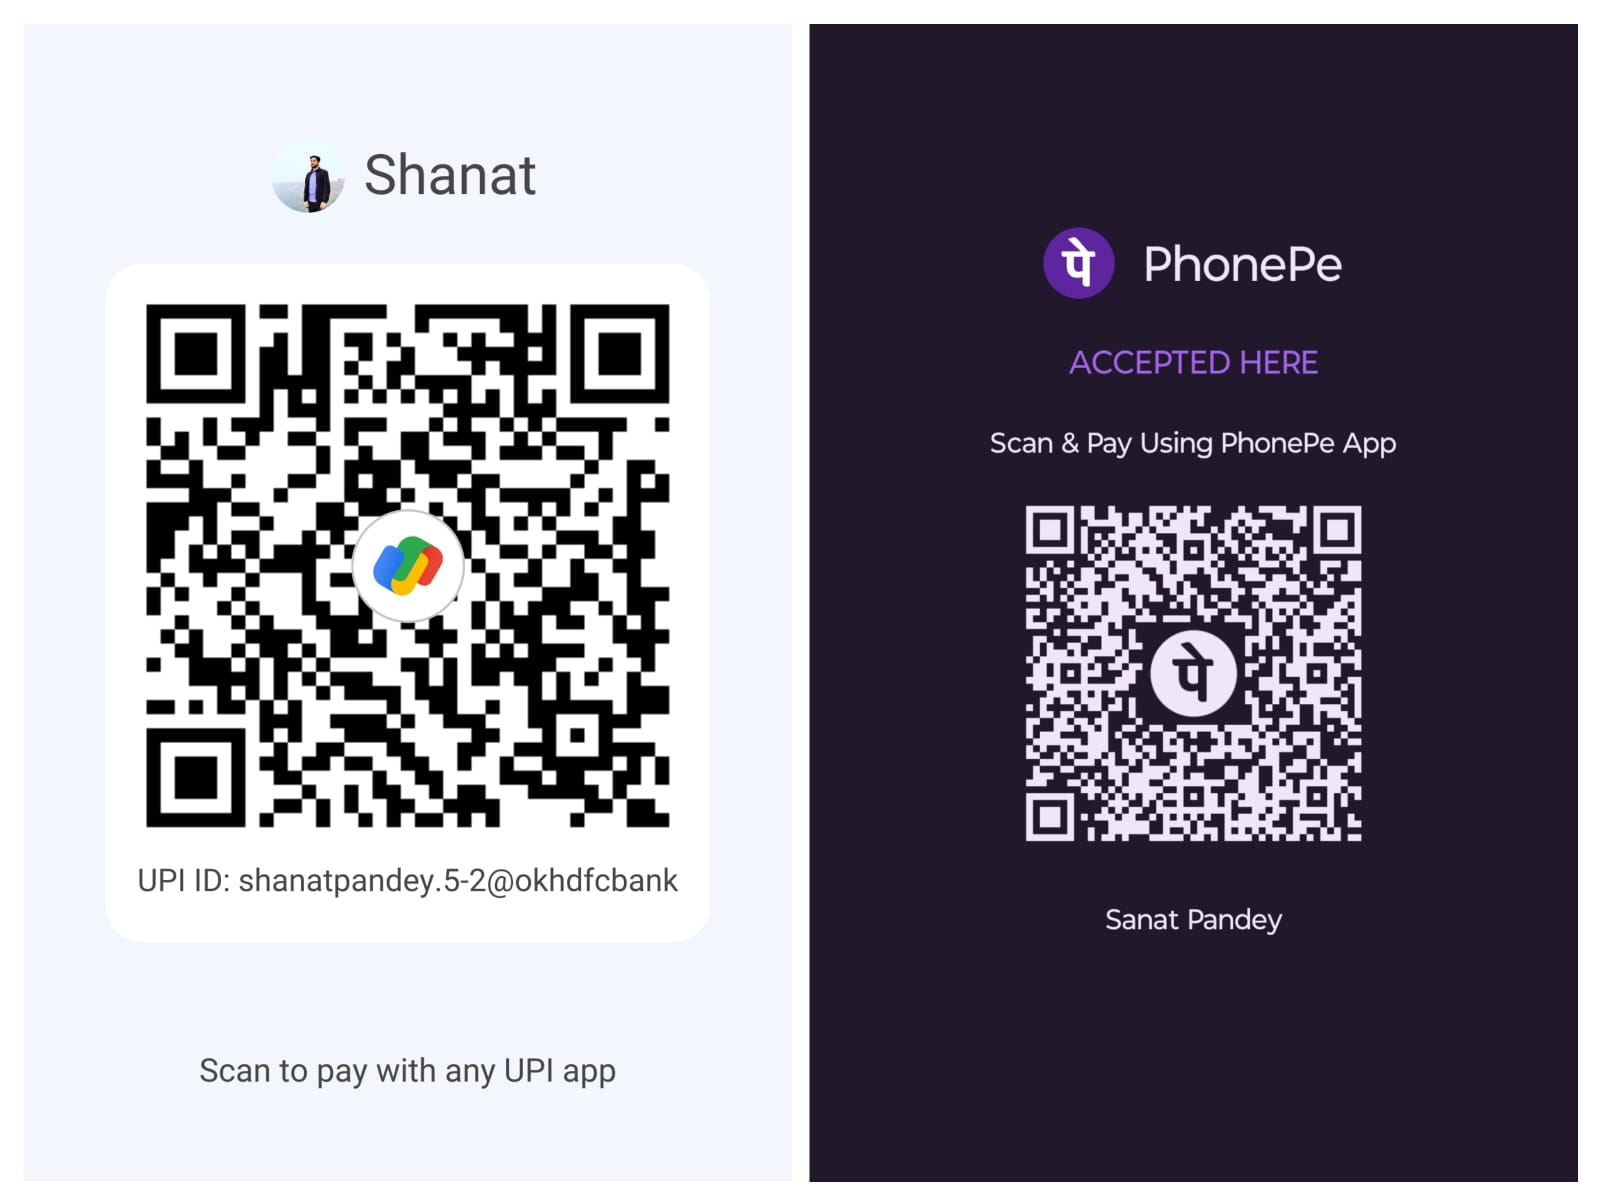
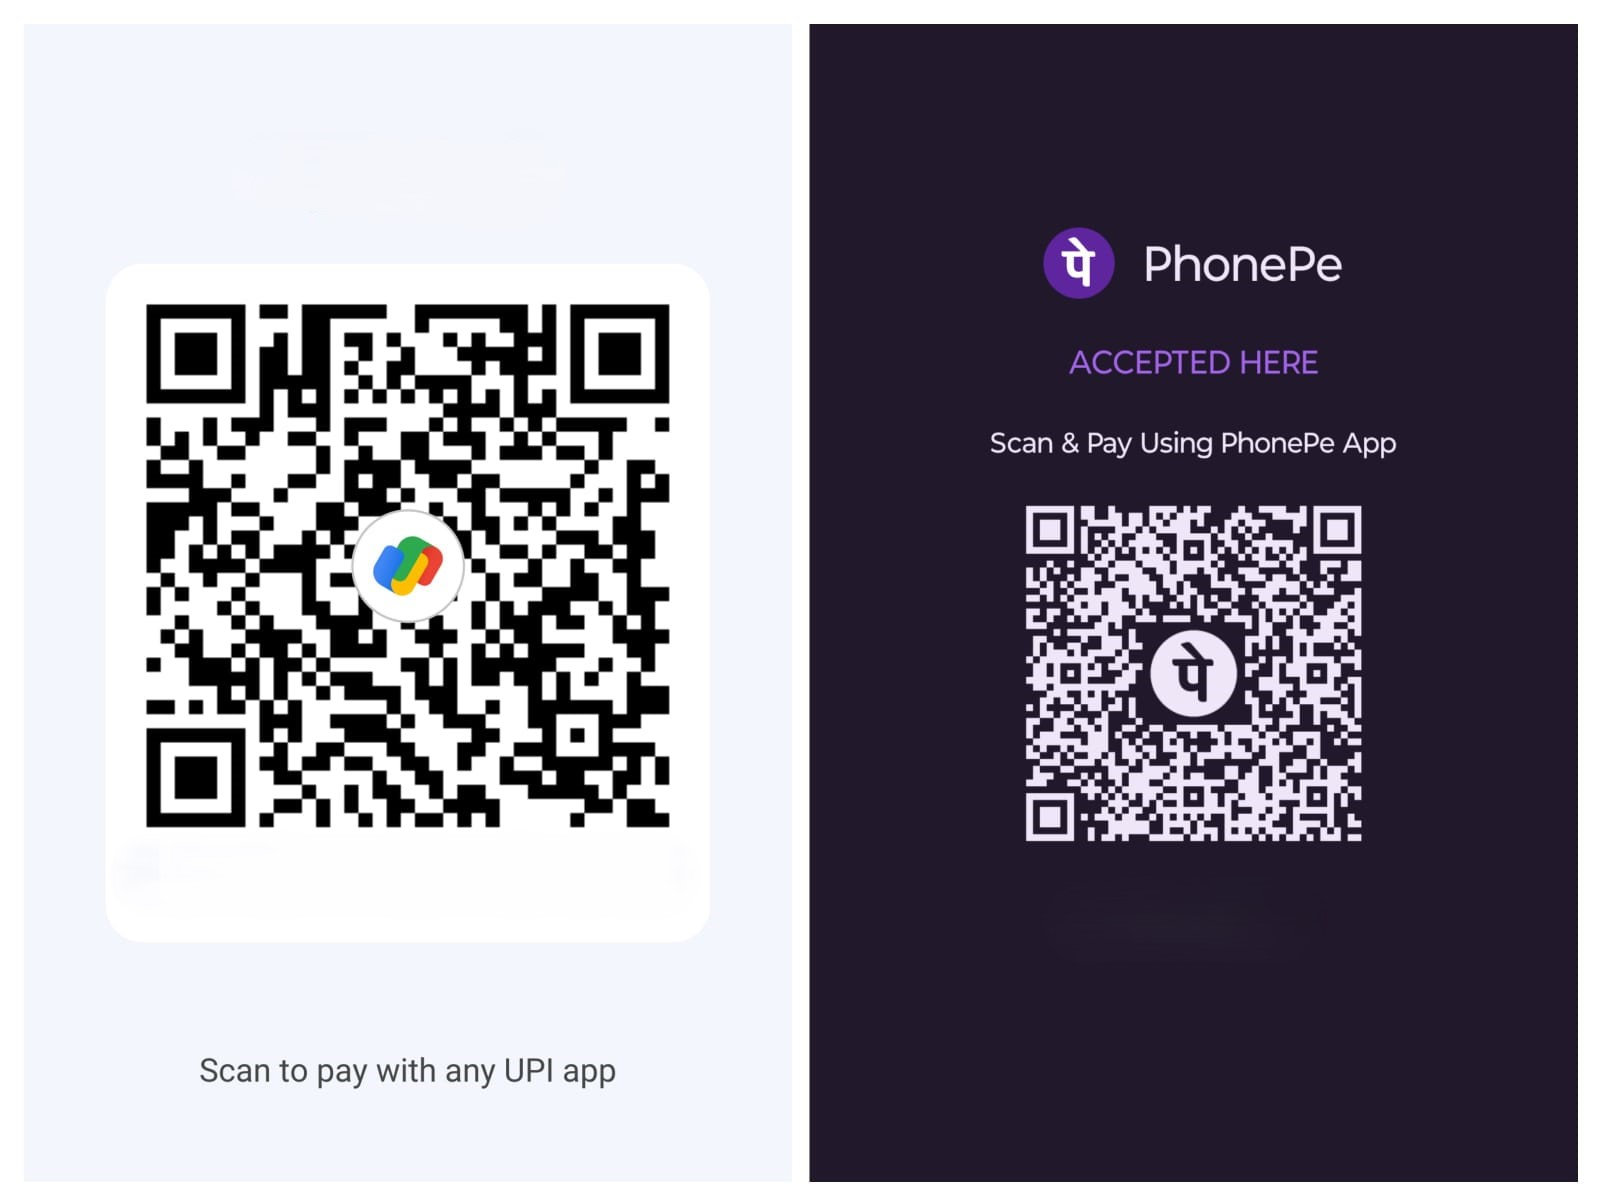
Updated multiple lines and added new code

Changed region(s): [[0.092, 0.7092, 0.4293, 0.74], [0.1533, 0.1233, 0.3373, 0.185], [0.7053, 0.74, 0.7972, 0.7708]]

diff --git a/src/components/Board copy.jsx b/src/components/Board copy.jsx
@@ -7,7 +7,7 @@ const Board = () => {
   const [buttons, setButtons] = useState(Array(totalButtons).fill({ symbol: null, color: "white", name: null }));
   const [kingCount, setKingCount] = useState(0);
   const [queenCount, setQueenCount] = useState(0);
-  const [isKingTurn, setIsKingTurn] = useState(true);
+  const [isKingTurn, setIsKingTurn] = useState(() => Math.random() < 0.5);
   const [selectedIndex, setSelectedIndex] = useState(null);
   const [goldenLines, setGoldenLines] = useState([]);
   const [pinkLines, setPinkLines] = useState([]);
@@ -21,6 +21,7 @@ const Board = () => {
   const [kingTime, setKingTime] = useState(0);
   const [queenTime, setQueenTime] = useState(0);
   const [winner, setWinner] = useState(null);
+
 
   const [removedPandavNames, setRemovedPandavNames] = useState([]);
   const [removedKauravNames, setRemovedKauravNames] = useState([]);
@@ -60,24 +61,52 @@ const Board = () => {
   // console.log(isKingTurn, "isKingTurn")
 
   const handleClick = (index) => {
-    console.log(index, "index")
+    console.log(index, "index");
     const audio = new Audio('/gt.mp3');
+
     setButtons((prevButtons) => {
       const newButtons = [...prevButtons];
       const current = newButtons[index];
-      console.log({ prevButtons })
-      console.log(selectedIndex === index, "cond 1")
-      console.log(current.symbol !== null && selectedIndex === null, "cond 2")
-      console.log(selectedIndex !== null && current.symbol === null, "cond 3")
-      console.log(kingCount < 9 - kingRemovals && isKingTurn, "cond 4")
-      console.log(queenCount < 9 - queenRemovals && !isKingTurn, "cond 5")
+
+
+      // Check if it's the player's turn
+      if (current.symbol === "P" && !isKingTurn) {
+        // Create and display the message
+        const messageDiv = document.createElement("div");
+        messageDiv.textContent = "Not Your Turn! It's कौरव⚔ turn.";
+        messageDiv.className = "turn-message";
+        document.body.appendChild(messageDiv);
+        // Remove the message after 3 seconds
+        setTimeout(() => {
+          messageDiv.remove();
+        }, 3000);
+        return prevButtons;
+      }
+      if (current.symbol === "K" && isKingTurn) {
+        // Create and display the message
+        const messageDiv = document.createElement("div");
+        messageDiv.textContent = "Not Your Turn! It's पांडव🛡 turn.";
+        messageDiv.className = "turn-message";
+        document.body.appendChild(messageDiv);
+        // Remove the message after 3 seconds
+        setTimeout(() => {
+          messageDiv.remove();
+        }, 3000);
+
+        return prevButtons;
+      }
+
+      console.log({
+        prevButtons,
+        selectedIndex: selectedIndex === index,
+        currentSymbol: current.symbol,
+      });
+
       if (selectedIndex === index) {
         setSelectedIndex(null);
       } else if (current.symbol !== null && selectedIndex === null) {
         if (movementRules[index].some((move) => newButtons[move].symbol === null)) {
           setSelectedIndex(index);
-          console.log(current.symbol === "P")
-          console.log(current.symbol)
           setIsKingTurn(current.symbol === "P");
           audio.play(); // Play sound for King
         }
@@ -86,40 +115,34 @@ const Board = () => {
           newButtons[index] = newButtons[selectedIndex];
           newButtons[selectedIndex] = { symbol: null, color: "white", name: null };
           setSelectedIndex(null);
-          console.log(newButtons[index].symbol)
-          console.log(newButtons[index].symbol === "P")
           setIsKingTurn(newButtons[index].symbol === "K");
           audio.play(); // Play sound for King
         }
       } else if (kingCount < 9 - kingRemovals && isKingTurn) {
-        const availablePandavNames = pandavNames.filter(name => !removedPandavNames.includes(name));
+        const availablePandavNames = pandavNames.filter((name) => !removedPandavNames.includes(name));
         newButtons[index] = { symbol: "P", color: "sandybrown", name: availablePandavNames[kingCount] };
         setKingCount(kingCount + 1);
         setIsKingTurn(false);
         audio.play(); // Play sound for King
       } else if (queenCount < 9 - queenRemovals && !isKingTurn) {
-        const availableKauravNames = kauravNames.filter(name => !removedKauravNames.includes(name));
+        const availableKauravNames = kauravNames.filter((name) => !removedKauravNames.includes(name));
         newButtons[index] = { symbol: "K", color: "skyblue", name: availableKauravNames[queenCount] };
         setQueenCount(queenCount + 1);
         setIsKingTurn(true);
         audio.play(); // Play sound for Queen
       }
+
       setShowRemoveButton(false);
       return newButtons;
     });
   };
 
-
-
   const handleContextMenu = (event, index) => {
     event.preventDefault();
-
     // Prevent removing dice if the color is Yellow or seagreen
     const currentColor = getButtonColor(index);
     if (currentColor === "Yellow" || currentColor === "seagreen") return;
-
     if (buttons[index].symbol === null) return;
-
     const buttonRect = event.target.getBoundingClientRect();
     setRemoveButtonPosition({
       top: buttonRect.top + window.scrollY + buttonRect.height / 2,
@@ -129,12 +152,10 @@ const Board = () => {
     setRemoveButtonIndex(index);
   };
 
-
   const handleRemove = () => {
     setButtons((prevButtons) => {
       const newButtons = [...prevButtons];
       const removedPiece = newButtons[removeButtonIndex];
-
       // Add the removed name to the removed list
       if (removedPiece.symbol === "P") {
         setRemovedPandavNames((prev) => [...prev, removedPiece.name]);
@@ -147,14 +168,12 @@ const Board = () => {
         setQueenRemovals(queenRemovals + 1);
         setKingRemovalCount(kingRemovalCount + 1);
       }
-
       // Clear the button
       newButtons[removeButtonIndex] = { symbol: null, color: "white", name: null };
       setShowRemoveButton(false);
       return newButtons;
     });
   };
-
 
   const getButtonColor = (index) => {
     const isGolden = goldenLines.some((line) => line.includes(index));
@@ -171,7 +190,6 @@ const Board = () => {
   const checkForLines = () => {
     const newGoldenLines = [];
     const newPinkLines = [];
-
     linesToCheck.forEach((line) => {
       const [a, b, c] = line;
       if (buttons[a].symbol === "P" && buttons[b].symbol === "P" && buttons[c].symbol === "P") {
@@ -188,9 +206,9 @@ const Board = () => {
   // Check for winner
   useEffect(() => {
     if (kingRemovalCount >= 7) {
-      setWinner("Pandav🛡");
+      setWinner("पांडव🛡");
     } else if (queenRemovalCount >= 8) {
-      setWinner("Kaurav🧸");
+      setWinner("कौरव⚔");
     }
   }, [kingRemovalCount, queenRemovalCount]);
 
@@ -230,7 +248,7 @@ const Board = () => {
 
         {winner && (
           <div className="winner-box">
-            🎉🎈 Congratulations! <strong>{winner}</strong> Won!🏆 🎉🎈🎉🎈🎈🎈🎉🎉🎈🎉🎈🎉🎈🎉🎈🎉🎈🎉
+            🎉🎈 Congratulations! <strong>{winner}</strong> Won ! 🏆 🎉🎈🎉🎈🎈🎉🎈🎉🎈🎉🎈🎉
           </div>
         )}
 
@@ -249,8 +267,20 @@ const Board = () => {
             className="blinking-light"
             style={{
               backgroundColor: isKingTurn ? "sandybrown" : "skyblue",
+              display: "flex",
+              justifyContent: "center",
+              alignItems: "center",
+              color: "Blue",
+              fontSize: "0.6rem",
+              fontWeight: "lighter",
+              height: "55px", // Adjust for better display
+              width: "200px", // Adjust for better display
+              borderRadius: "10px", // Optional: rounded corners
+              textAlign: "center",
             }}
-          ></div>
+          >
+            {isKingTurn ? "Turn is 🛡 पांडव" : "Turn is ⚔ कौरव"}
+          </div>
         </div>
 
         <svg className="rectangle-lines" viewBox="0 0 100 100" preserveAspectRatio="none">
@@ -270,7 +300,4 @@ const Board = () => {
     </>
   );
 };
-
 export default Board;
-
-

diff --git a/src/components/Learn.jsx b/src/components/Learn.jsx
@@ -39,7 +39,7 @@ const Learn = () => {
 
           {/* Hindi Rules Section */}
           <div className="rules-box">
-          <div className="rule-item">-------------------------------------📚Game Rules: हिंदी में 📚--------------------------------------</div>
+          <div className="rule-item">-------------------------------------📚Game Rules: हिंदी🥇  📚--------------------------------------</div>
             <div className="rule-item">🐎 केवल 2 खिलाड़ी एक समय में खेल सकते हैं🐎</div>
             <div className="rule-item">🎲 प्रत्येक खिलाड़ी को खेल शुरू करने के लिए 9-9 dice मिलते हैं 🎲</div>
             <div className="rule-item">🏌♂ खिलाड़ी बारी-बारी से बोर्ड पर एक-एक करके dice रखते हैं 🏌♂</div>

diff --git a/src/components/PlayerCount.jsx b/src/components/PlayerCount.jsx
@@ -3,10 +3,10 @@ import React from 'react'
 const PlayerCount = ({ kingRemovalCount, queenRemovalCount, kingTime, queenTime }) => {
     return (
         <div className="counter-buttons d-flex gap-4">
-            <button className="king-count-button">Pandav🛡 Points | {kingRemovalCount} | {Math.floor(kingTime / 60)}:{String(kingTime % 60).padStart(2, '0')}</button>
-            <button className="queen-count-button">Kaurav🧸 Points | {queenRemovalCount} | {Math.floor(queenTime / 60)}:{String(queenTime % 60).padStart(2, '0')}</button>
+            <button className="king-count-button">पांडव🛡 Points | {kingRemovalCount} | {Math.floor(kingTime / 60)}:{String(kingTime % 60).padStart(2, '0')}</button>
+            <button className="queen-count-button">कौरव⚔ Points | {queenRemovalCount} | {Math.floor(queenTime / 60)}:{String(queenTime % 60).padStart(2, '0')}</button>
         </div>
     )
-}
+} 
 
 export default PlayerCount

diff --git a/src/components/SideHeader.jsx b/src/components/SideHeader.jsx
@@ -78,9 +78,9 @@ const SideHeader = () => {
           <Link to="/privacyPolicy">🔐 Privacy Policy</Link>
         </div>
         <div className="footer-icons">
-          <a href="https://www" target="_blank" rel="noopener noreferrer">X</a>
+          <a href="https://x.com/Vyuha_?t=NKXgNuhpracHlIUOlXVfsw&s=08" target="_blank" rel="noopener noreferrer">X</a>
           <a href="https://www.youtube.com/@Vyuha-m1t" target="_blank" rel="noopener noreferrer">YouTube</a>
-          <a href="https://www.instagram.com" target="_blank" rel="noopener noreferrer">Instagram</a>
+          <a href="https://www.instagram.com/vyuh__?utm_source=qr&igsh=cmpmbnhxbnNjNDhq" target="_blank" rel="noopener noreferrer">Instagram</a>
           <a href="https://www.discord.com" target="_blank" rel="noopener noreferrer">Discord</a>
         </div>
         <div className="footer-copyright">

diff --git a/src/components/Partners.jsx b/src/components/Partners.jsx
@@ -41,10 +41,10 @@ const Partners = () => {
         <img src="/Donate.jpg" alt="QR Code for Donation" className="qr-code-image" />
       </div>
       <p className="contact-info">-----</p>
-      <p className="contact-info">UPI ID:- shanatpandey.5-2@okhdfcbank</p>
-      <p className="contact-info">----------</p>
-      <p className="contact-info">Contact us: +91-9303368482 | Animesh | +91-6261292989 | Sanat</p>
-      <p className="contact-info">----------------</p>
+      <p className="contact-info">-----</p>
+      <p className="contact-info">😊Thanks a lot!✨</p>
+      <p className="contact-info">------</p>
+      <p className="contact-info">------</p>
     </div>
   );
 };

diff --git a/src/components/Bond.jsx b/src/components/Bond.jsx
@@ -1,6 +1,7 @@
 import React, { useState, useEffect } from "react";
 import "../App.css";
 import PlayerCount from "./PlayerCount";
+import WorldWar from "./WorldWar";
 
 const Board = () => {
   const totalButtons = 24;
@@ -224,7 +225,7 @@ const Board = () => {
  
    return (
     <>
-      <PlayerCount kingRemovalCount={kingRemovalCount} queenRemovalCount={queenRemovalCount} kingTime={kingTime} queenTime={queenTime} />
+      <WorldWar kingRemovalCount={kingRemovalCount} queenRemovalCount={queenRemovalCount} kingTime={kingTime} queenTime={queenTime} />
       <div className="rectangle-container Board-background">
        {buttons.map((btn, index) => (
          <button

diff --git a/src/components/WorldWar.jsx b/src/components/WorldWar.jsx
@@ -1,0 +1,12 @@
+import React from 'react'
+
+const WorldWar = ({ kingRemovalCount, queenRemovalCount, kingTime, queenTime }) => {
+    return (
+        <div className="counter-buttons d-flex gap-4">
+            <button className="king-count-button">RedArmy🛡 Points | {kingRemovalCount} | {Math.floor(kingTime / 60)}:{String(kingTime % 60).padStart(2, '0')}</button>
+            <button className="queen-count-button">WhiteArmy⚔ Points | {queenRemovalCount} | {Math.floor(queenTime / 60)}:{String(queenTime % 60).padStart(2, '0')}</button>
+        </div>
+    )
+}
+
+export default WorldWar

diff --git a/src/components/Footer.css b/src/components/Footer.css
@@ -39,9 +39,10 @@ body {
 /* Query submission section */
 .query-box {
   background-color: #2e2e3e;
-  padding: 20px;
+  padding: 30px;
   border-radius: 8px;
-  margin-top: 20px;
+  margin-top: 30px;
+  margin-bottom: 100px;
   color: #eee;
 }
 
@@ -80,6 +81,7 @@ body {
   color: #00ff99;
   /* Success color */
   font-size: 1em;
+  margin-bottom: 50px;
 }
 
 /* Responsive adjustments */
@@ -249,7 +251,7 @@ h1,
 h2 {
   color: yellow;
   text-align: center;
-  margin-bottom: 30px;
+  margin-bottom: 20px;
 }
 
 .privacy-heading {

diff --git a/src/components/Home.jsx b/src/components/Home.jsx
@@ -3,10 +3,6 @@ import { useNavigate } from 'react-router-dom';
 
 const Home = () => {
     const navigate = useNavigate();
-    // const handlePlayOnlineClick = () => {
-    //     setCurrentContent('onlinePlay'); // Navigate to OnlinePlay page
-    //     if (OnlinePlayClick) OnlinePlayClick();
-    // };
     return (
         <div className='d-flex flex-col'>
             <img src="D.webp" alt="Custom Content" className="responsive-image" />

diff --git a/src/components/Support.jsx b/src/components/Support.jsx
@@ -60,6 +60,7 @@ const Support = () => {
         <h3>Contact Us</h3>
         <p>You can reach us via:</p>
         <p>WhatsApp: <a href="https://wa.me/916261292989" target="_blank" rel="noopener noreferrer">+91 6261292989</a></p>
+        <p>Call Us: <a href="#">+91-9303368482</a></p>
         <p>Email: <a href="mailto:thevyuha9@gmail.com">thevyuha9@gmail.com</a></p>
       </div>
 

diff --git a/src/components/PrivacyPolicy.jsx b/src/components/PrivacyPolicy.jsx
@@ -5,7 +5,7 @@ const PrivacyPolicy = () => {
   return (
     <div className="privacy-container">
       <h1 className="privacy-heading">Privacy Policy for Vyuh!</h1>
-      <p className="last-updated">Last Updated: [27/10/2024]</p>
+      <p className="last-updated">Last Updated: [10/2/2025]</p>
 
       <section className="policy-section">
         <p>Welcome to Vyuh!</p>
